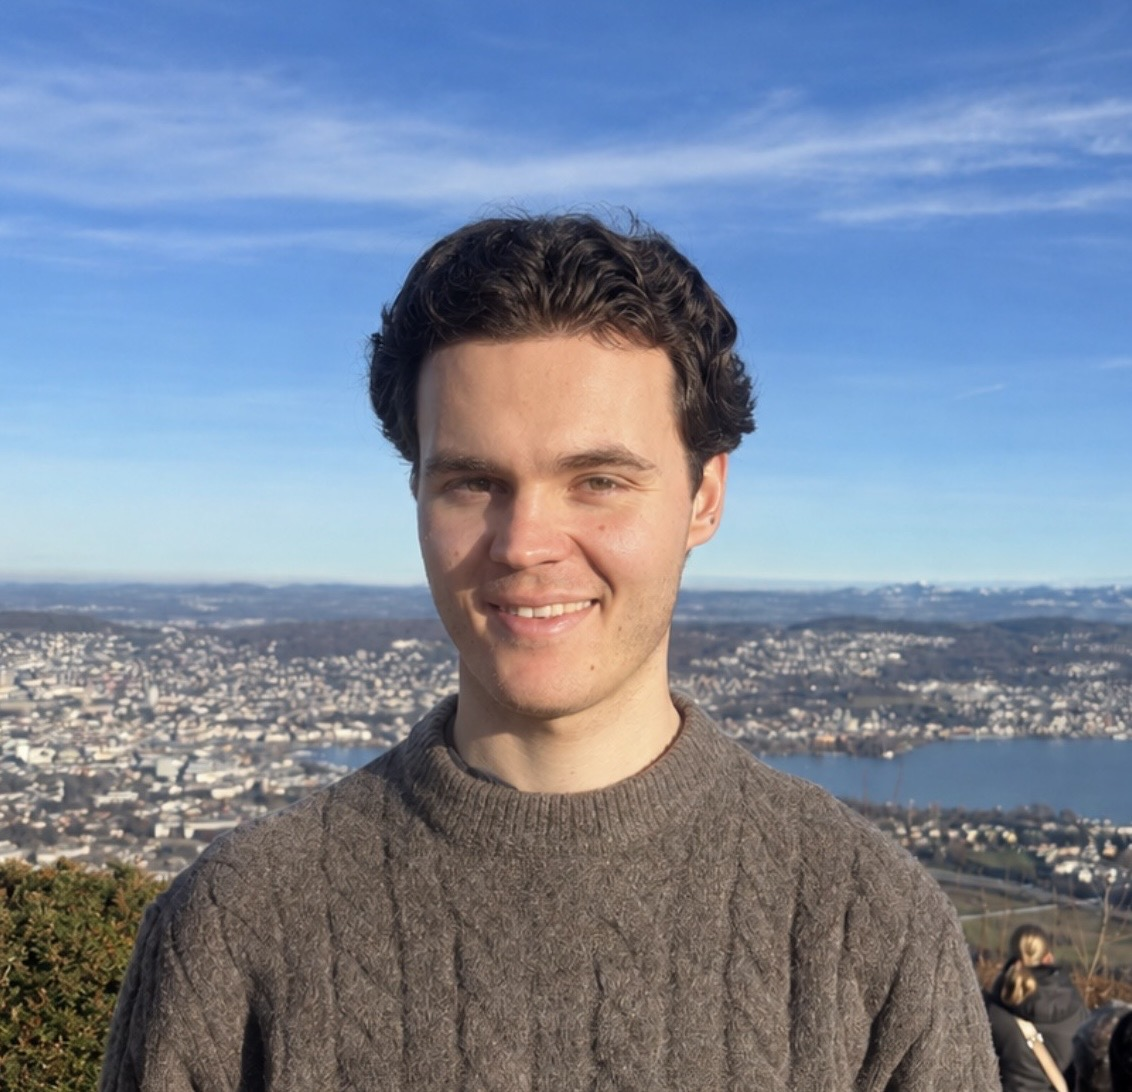
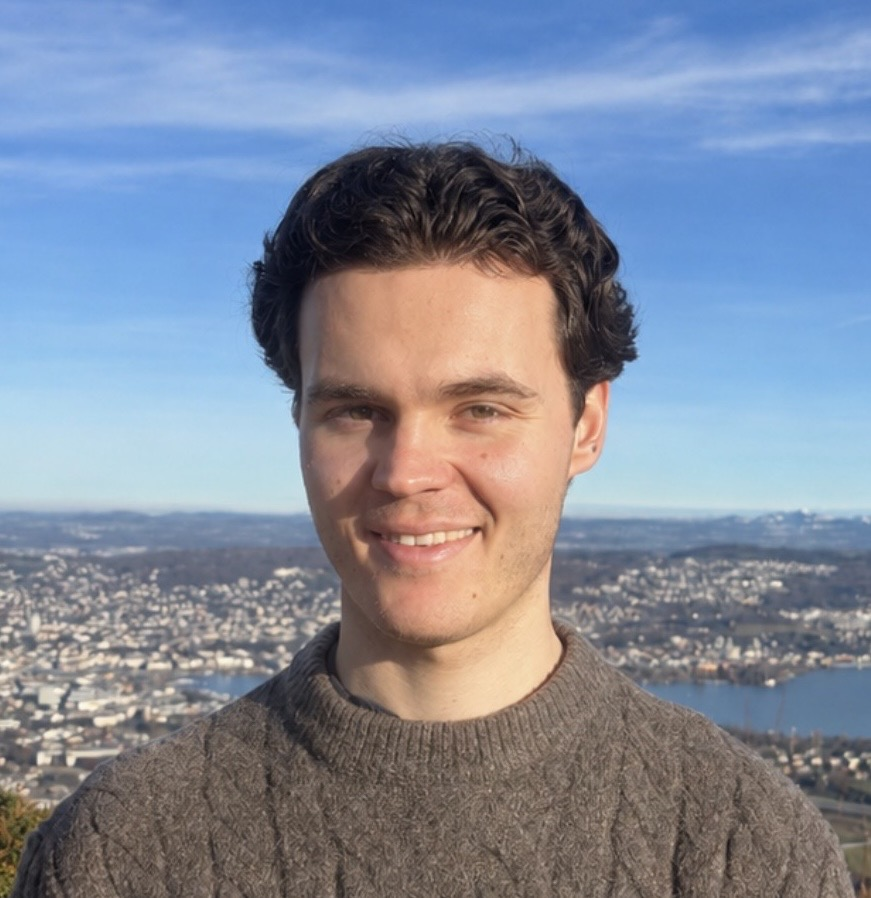
Update profile and site appearance

diff --git a/_pages/about.md b/_pages/about.md
@@ -10,7 +10,7 @@ profile:
   image_circular: false # crops the image to make it circular
 
 selected_papers: true
-social: true
+social: false
 
 announcements:
   enabled: false
@@ -21,4 +21,8 @@ latest_posts:
 
 I am a Master's student in Mathematics at [ETH Zurich](https://ethz.ch/). My research interests include domain generalization, representation learning, causality, and mechanistic interpretability.
 
-I recently worked on **Anchor PCA**, a method for invariant dimensionality reduction across multiple environments.
+My BSc thesis, supervised by [Prof. Jonas Peters](https://people.math.ethz.ch/~jopeters/), resulted in [**Anchor PCA**](https://arxiv.org/abs/2606.06233), a method for invariant dimensionality reduction across multiple environments.
+
+<div class="social">
+  <div class="contact-icons">{% social_links %}</div>
+</div>
